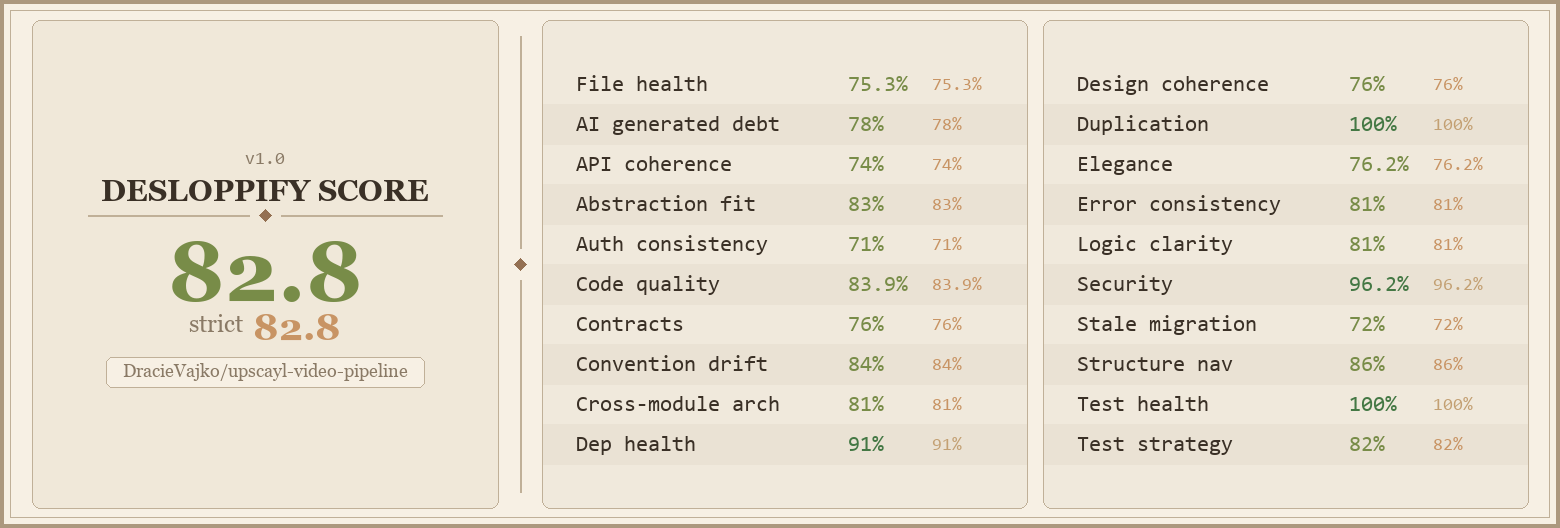
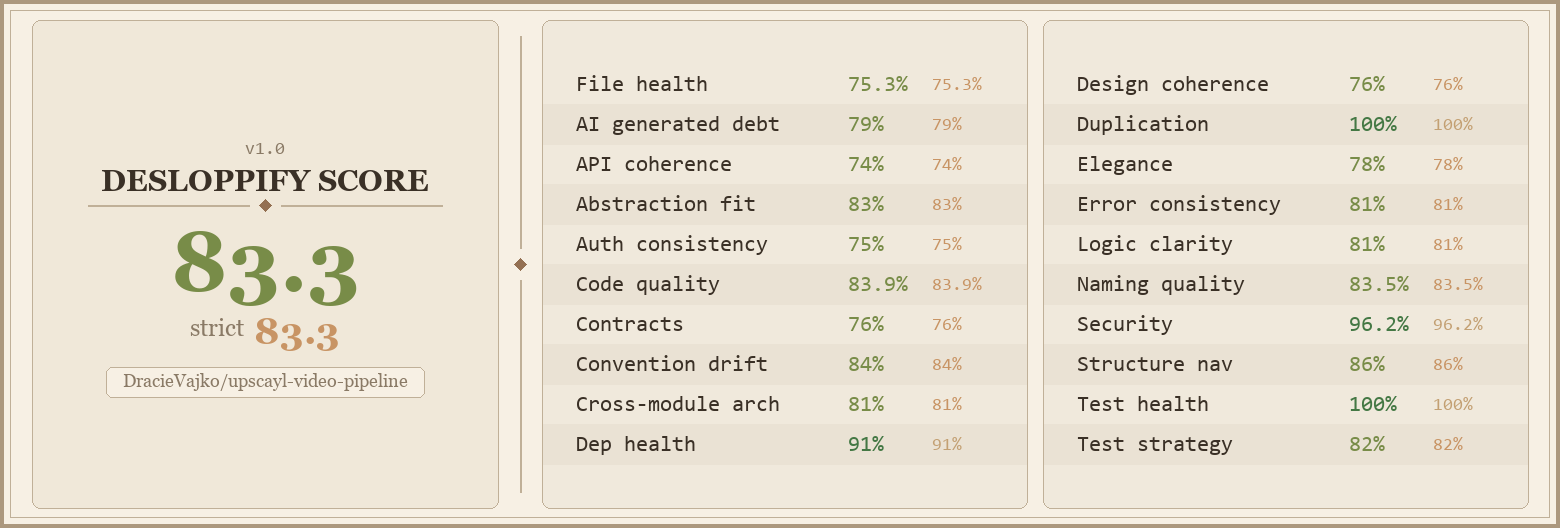
fix(v1): finish honours --dry-run, disk estimate reports fits, restore meta separators
- run_finish now previews instead of assembling when dry_run is set

- disk.with_free_space derives DiskEstimate.fits instead of leaving it permanently False

- model_test meta line uses the real middle dot again; 202 tests pass

diff --git a/src/upscayl_video/pipeline.py b/src/upscayl_video/pipeline.py
@@ -12,7 +12,13 @@ from pathlib import Path
 from typing import Sequence
 
 from .config import Config
-from .disk import check_estimate, estimate_disk, free_bytes, sample_frame_bytes
+from .disk import (
+    check_estimate,
+    estimate_disk,
+    free_bytes,
+    sample_frame_bytes,
+    with_free_space,
+)
 from .chunking import concat_segments, plan_chunks
 from .encode import (
     EncodeOptions,
@@ -414,7 +420,7 @@ def run_split(
             duration=processed_duration,
         )
         estimate = estimate_disk(sample_bytes, expected_frames, scale)
-        estimate = dataclasses.replace(estimate, free_bytes=free_bytes(config.work_dir))
+        estimate = with_free_space(estimate, free_bytes(config.work_dir))
         logger.info(
             f"Job {job.job_id}: {format_duration(processed_duration)}, "
             f"{expected_frames} frames, sample {human_bytes(sample_bytes)}, "
@@ -895,9 +901,7 @@ def _auto_chunk_seconds(
         duration=duration,
     )
     estimate = estimate_disk(sample, frames, scale)
-    estimate = dataclasses.replace(
-        estimate, free_bytes=free_bytes(config.work_dir)
-    )
+    estimate = with_free_space(estimate, free_bytes(config.work_dir))
     logger.info(
         "Auto-chunk estimate: "
         f"{format_duration(duration)}, {frames} frames, "

diff --git a/src/upscayl_video/workspace.py b/src/upscayl_video/workspace.py
@@ -422,9 +422,16 @@ def run_finish(config: Config, options: FinishOptions, logger: Logger) -> int:
             logger.warn(f"Skipping {job.job_id}: no upscaled frames in {job.upscaled_dir}")
             skipped += 1
             continue
+        if options.dry_run:
+            logger.info(
+                f"Dry run: would assemble {job.job_id} ({count} frames) "
+                f"and publish it to {config.output_dir}"
+            )
+            done += 1
+            continue
         try:
             logger.info(f"Assembling {job.job_id} ({count} frames)")
-            outputs = run_assemble([job], config, encode, logger)
+            outputs = run_assemble([job], config, encode, logger, dry_run=options.dry_run)
             if outputs:
                 logger.info(f"Output: {outputs[0]}")
             done += 1

diff --git a/src/upscayl_video/disk.py b/src/upscayl_video/disk.py
@@ -4,7 +4,7 @@ from __future__ import annotations
 
 import shutil
 import tempfile
-from dataclasses import dataclass
+from dataclasses import dataclass, replace
 from pathlib import Path
 
 from .config import Config
@@ -60,6 +60,12 @@ def estimate_disk(
         free_bytes=0,
         fits=False,
     )
+
+
+def with_free_space(estimate: DiskEstimate, free: int) -> DiskEstimate:
+    """Attach the measured free space and derive whether the estimate fits."""
+    free = max(0, int(free))
+    return replace(estimate, free_bytes=free, fits=free >= estimate.total_bytes)
 
 
 def check_estimate(

diff --git a/src/upscayl_video/model_test.py b/src/upscayl_video/model_test.py
@@ -233,7 +233,7 @@ def _report_html(
         f"<style>{_CSS}</style></head><body>",
         f"<h1>Model test — {html.escape(video.name)}</h1>",
         (
-            f'<div class="meta">{media.width}×{media.height} ' + DOT + ' '
+            f'<div class="meta">{media.width}×{media.height} · '
             f"{format_clock(media.duration)} · seed {seed} · "
             f"{len(models)} models · {len(timestamps)} frames</div>"
         ),
